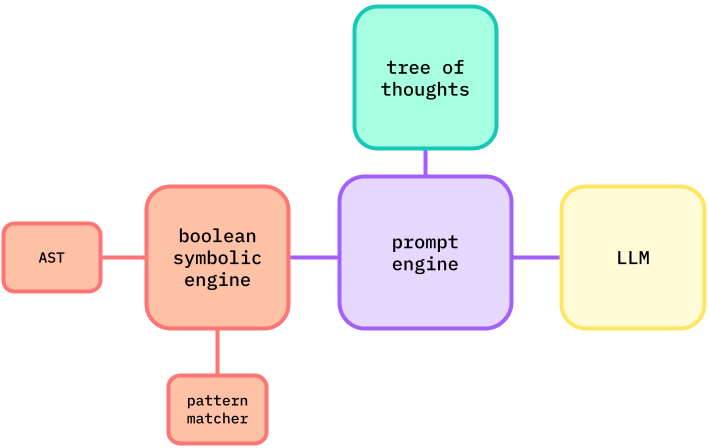
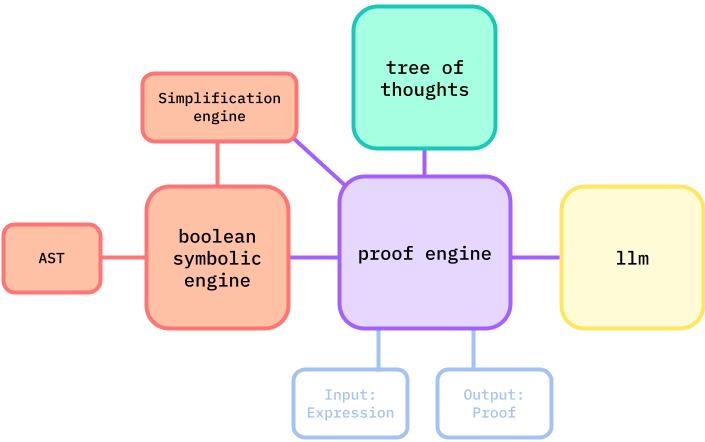
update system diagram

diff --git a/README.md b/README.md
@@ -38,9 +38,9 @@ pip install -r requirements.txt
 - [ ] Symbolic engine
     - [x] expression to AST representation
     - [x] implement common laws on the AST
+    - [x] simplification engine
     - [ ] complete implication and bi-conditional laws
     - [ ] fix expression bugs (below in bug tracker)
-    - [ ] simplification engine
 - [ ] Write testcases
 - [ ] Set up experiment suite to track model performance
 - [ ] Start experimenting with how to improve ToT
